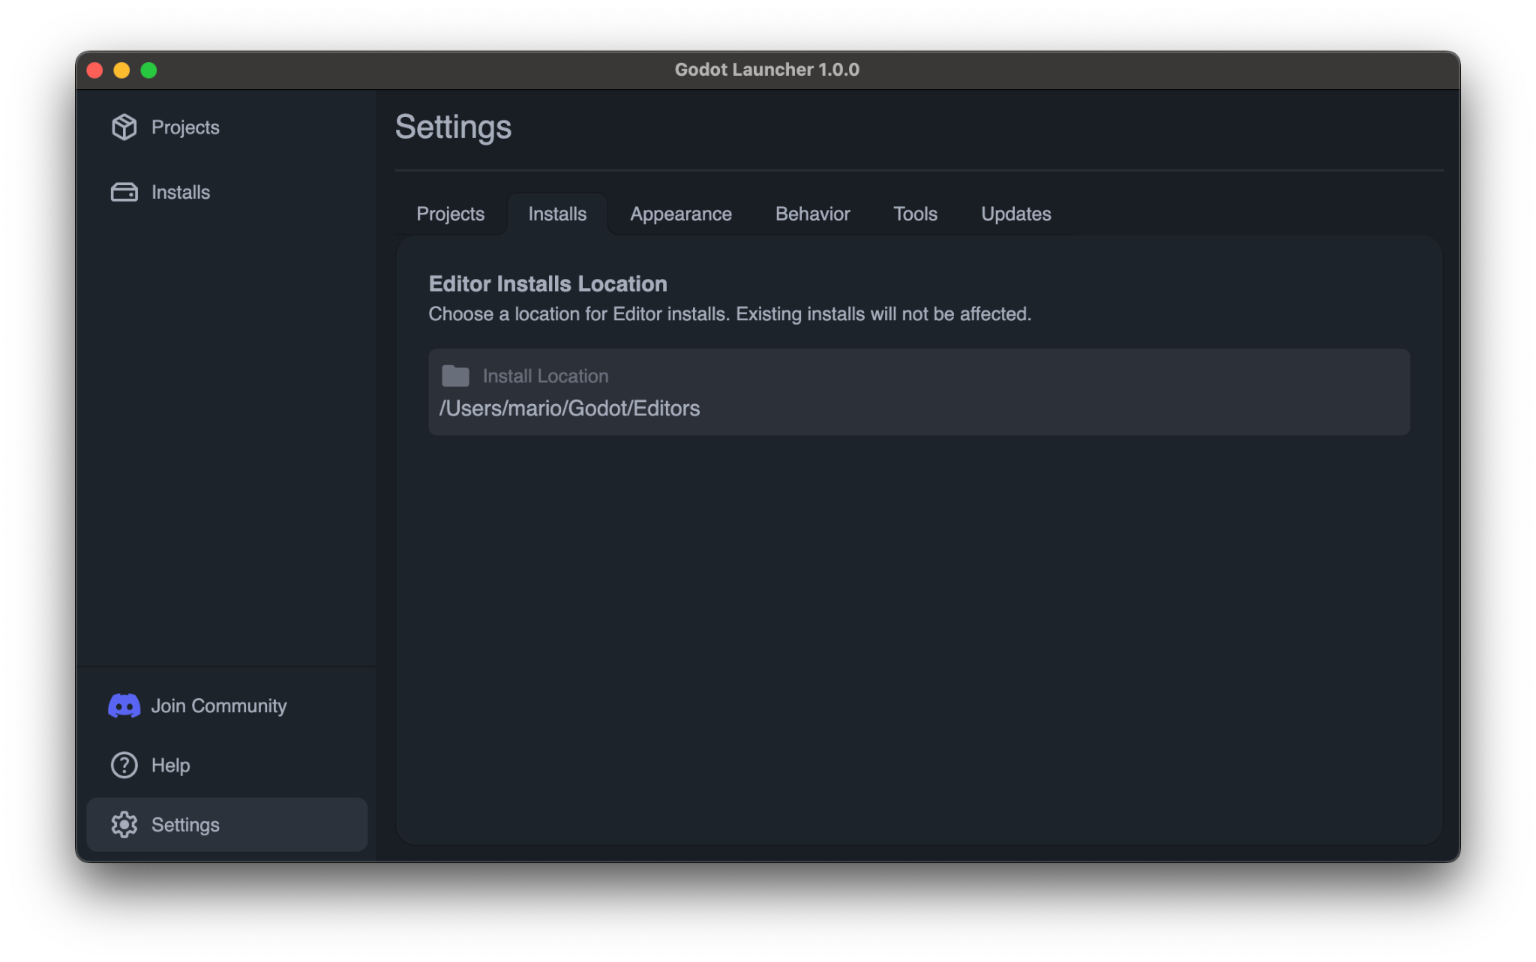
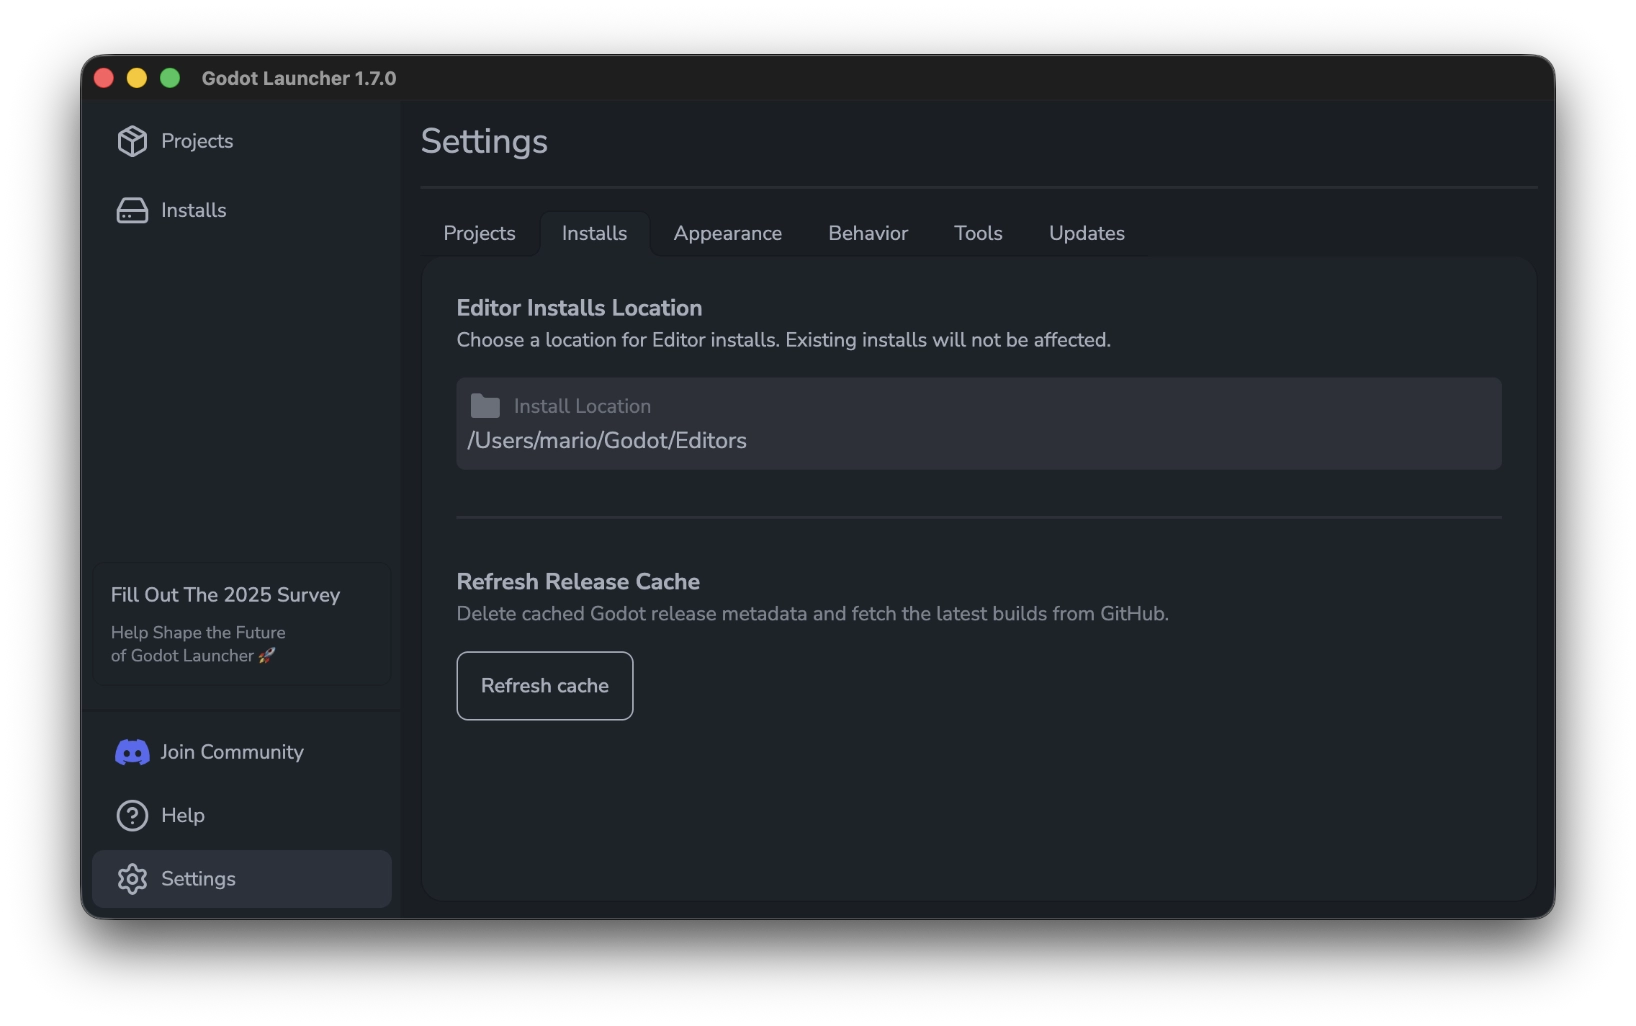
Release/1.7.0 (#14)
* Feat: Add refresh release cache functionality to launcher settings

* 1.7.0

diff --git a/docs/getting-started/launcher-settings.md b/docs/getting-started/launcher-settings.md
@@ -46,6 +46,12 @@ The **Installs** tab lets you choose where Godot editor versions are stored.
 It's helpful to store your editors on a fast local drive, especially if you work with multiple Godot versions.
 :::
 
+- **Refresh Release Cache**: Lets your clear the current Godot releases cached from the official Godot Engine Repository and rebuild the list. This cache is used to speed up the [Godot Editor install.](/getting-started/install-editor/)
+
+:::note
+The button have a 1 minute cooldown to prevent your from hitting the GitHub API limit.
+:::
+
 ---
 
 ## Appearance Tab